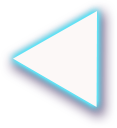
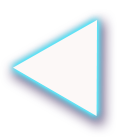
сделал поворот колеса в вертикальном положении

Changed region(s): [[0.0769, 0.0312, 0.9231, 0.8438]]

diff --git a/css/reel.css b/css/reel.css
@@ -42,10 +42,12 @@
 .reel__inner--pointer {
   left: auto;
   right: -34em;
-  bottom: -6em;
   width: 117em;
   height: 128em;
+
   background-image: url(../img/reel-pointer.png);
+  transform-origin: -296em 50%;
+  transition: transform 1s;
 }
 
 .reel__inner--logo {
@@ -95,15 +97,21 @@
   font-weight: 700;
 }
 
+.reel__content {
+  width: 100%;
+  height: 100%;
+  transition: transform 1s;
+}
+
 .reel__sector {
   position: absolute;
   width: 160em;
   right: 58em;
   top: 50%;
-  transform-origin: -160em 50%;
-  transform: translateY(-50%) rotate(0);
 
   text-align: center;
+  transform: translateY(-50%) rotate(0);
+  transform-origin: -160em 50%;
 }
 
 .reel__sector-text {
@@ -119,6 +127,11 @@
 .wheel--confirm .reel__inner--result,
 .wheel--result .reel__inner--result {
   opacity: 1;
+}
+
+.wheel--vertical .reel__content,
+.wheel--vertical .reel__inner--pointer {
+  transform: rotate(-90deg);
 }
 
 

diff --git a/scripts/wheel.js b/scripts/wheel.js
@@ -9,6 +9,7 @@ window.showWheel = (sectors, callback) => {
   const smallReel = document.querySelector('.reel__inner--circle-small');
   const mediumReel = document.querySelector('.reel__inner--circle-medium');
   const contentReel = document.querySelector('.reel__inner--circle-content');
+  const sectorsContainer = document.querySelector('.reel__content');
   const resultText = document.querySelector('.reel__result-text');
   const resultValue = document.querySelector('.reel__result-value');
 
@@ -27,7 +28,7 @@ window.showWheel = (sectors, callback) => {
   const init = () => {
     wheel.style.opacity = 1;
 
-    contentReel.innerHTML = getSectorsHtml(sectors);
+    sectorsContainer.innerHTML = getSectorsHtml(sectors);
 
     resize();
     window.addEventListener('resize', resizeHandler);

diff --git a/wheel.html b/wheel.html
@@ -18,7 +18,9 @@
         <div class="wheel__reel reel">
           <div class="reel__inner reel__inner--circle-small"></div>
           <div class="reel__inner reel__inner--circle-medium"></div>
-          <div class="reel__inner reel__inner--circle-content"></div>
+          <div class="reel__inner reel__inner--circle-content">
+            <div class="reel__content"></div>
+          </div>
           <div class="reel__inner reel__inner--logo"></div>
           <div class="reel__inner reel__inner--pointer"></div>
           <div class="reel__inner reel__inner--result">
